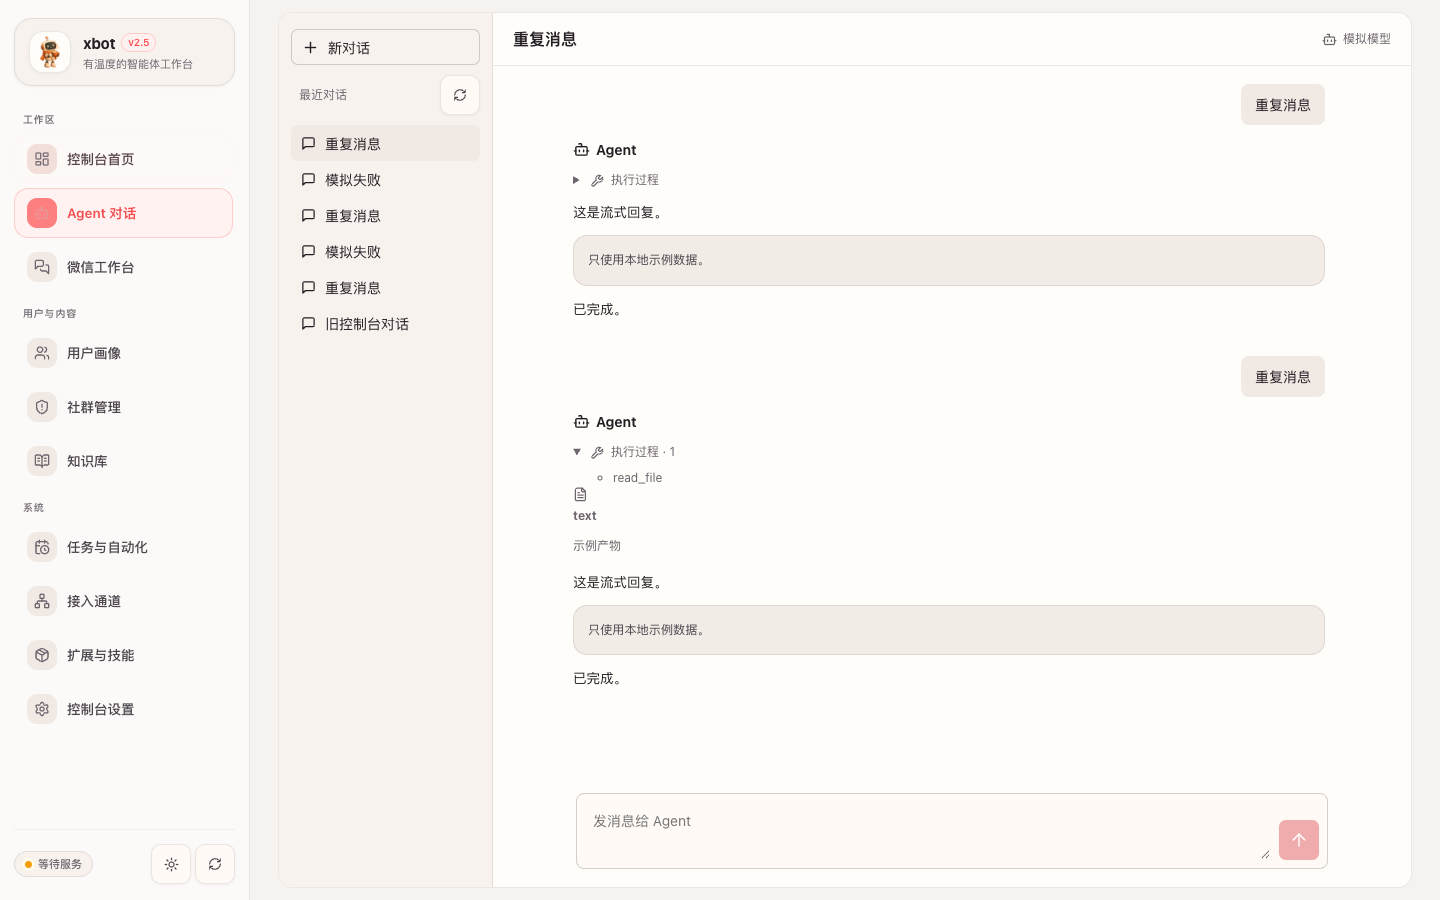
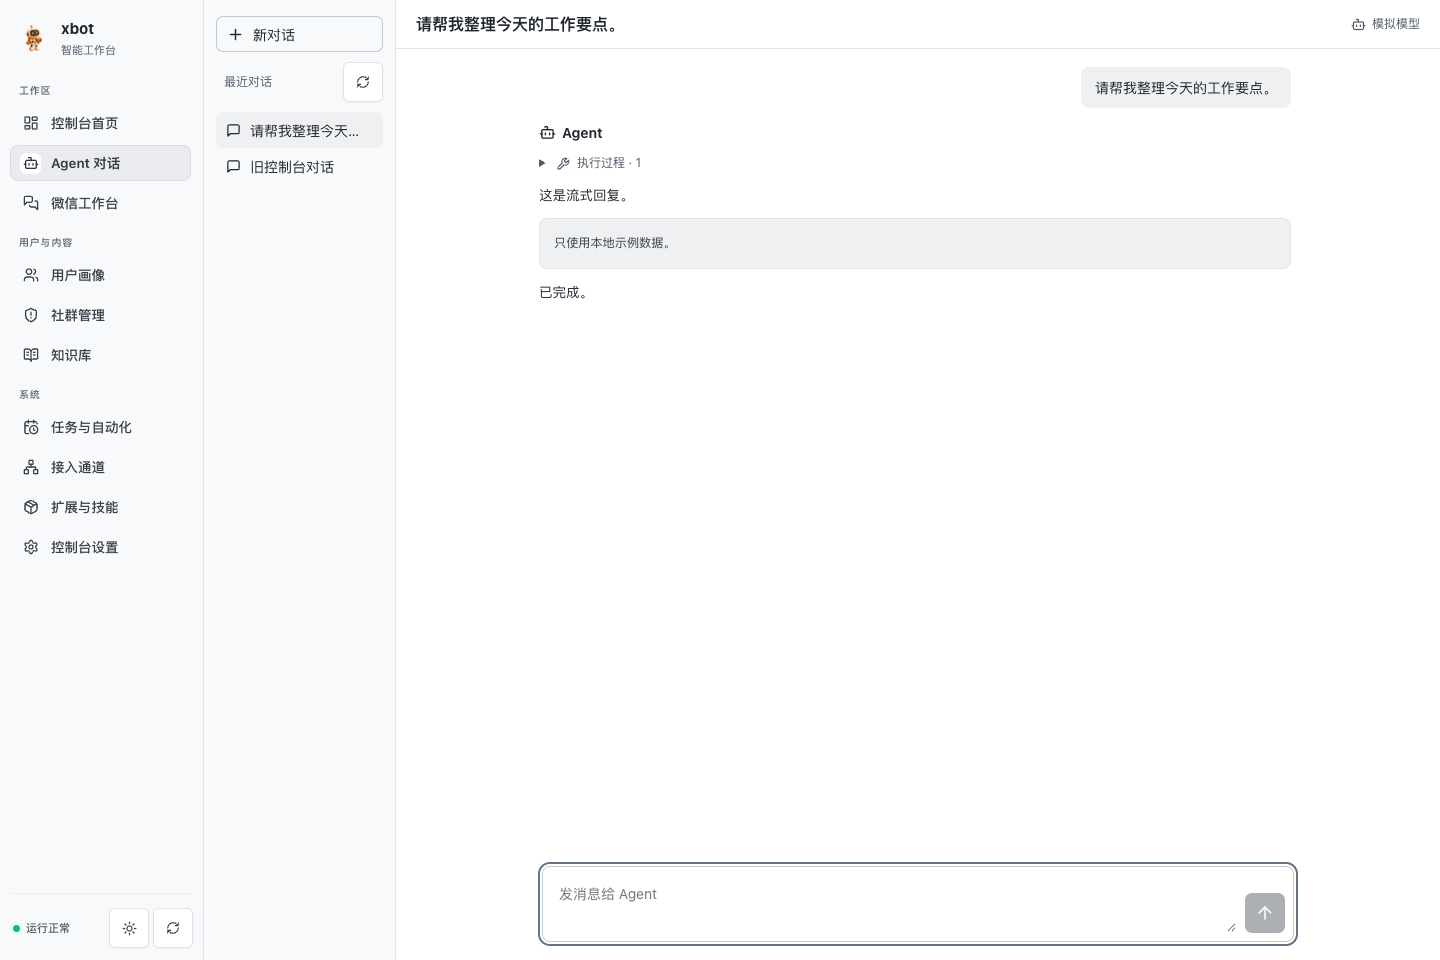
docs(readme): refresh console screenshots and setup guide

diff --git a/README.md b/README.md
@@ -1,6 +1,6 @@
 # xbot-next
 
-**自托管的 Agent 与消息机器人工作台。** 在一个 Web 控制台里和 Hermes Agent 对话、管理微信会话，并配置自动化任务。
+**自托管的 Agent 与消息机器人工作台。** 在一个紧凑的 Web 控制台里与 Hermes Agent 对话、管理微信会话、接入消息通道并配置自动化任务。
 
 [桌面预览](#桌面预览) · [快速开始](#快速开始) · [模型与通道](#模型与通道) · [开发指南](#开发指南) · [许可](#许可)
 
@@ -22,7 +22,19 @@
 
 ![微信工作台桌面界面：联系人头像、左侧来信和右侧机器人回复](docs/screenshots/desktop-wechat.png)
 
-控制台还提供通道状态、定时任务、插件和 Skill 管理；Agent 需要外部工具时，可按需接入 MCP。
+### 接入通道
+
+微信客户端、微信 iLink、QQ、Telegram 和 Web 各有独立卡片。卡片展示通道状态，微信、QQ 和 Telegram 使用浅底平台图标，浏览器标签显示 Xbot 吉祥物。
+
+![接入通道桌面界面：微信、QQ、Telegram 和 Web 的图标与状态](docs/screenshots/desktop-channels.png)
+
+### 控制台设置
+
+打开设置默认进入模型配置。系统设置按用途分组，通道参数按平台分组；常用项直接显示，进阶参数按需展开，也可以搜索定位。
+
+![控制台设置桌面界面：分组导航、模型配置与进阶选项](docs/screenshots/desktop-settings.png)
+
+控制台还提供定时任务、插件和 Skill 管理；Agent 需要外部工具时，可按需接入 MCP。
 
 ## 快速开始
 
@@ -59,7 +71,7 @@ bash scripts/install.sh
 
 ## 模型与通道
 
-先在 **控制台设置 → 系统与模型配置** 设置服务地址、模型名和 API Key，再到 **Agent 对话** 试发一条消息。不接微信也能使用 Web Agent。支持 OpenAI-compatible 和 Anthropic 接口；环境变量和权限边界见 [Hermes 集成指南](docs/hermes-agent-integration.md) 与 [.env.example](.env.example)。真实密钥只存于本机配置或部署环境。
+先在 **控制台设置 → 系统与模型 → 模型配置** 设置服务地址、模型名和 API Key，再到 **Agent 对话** 试发一条消息。不接微信也能使用 Web Agent。支持 OpenAI-compatible 和 Anthropic 接口；环境变量和权限边界见 [Hermes 集成指南](docs/hermes-agent-integration.md) 与 [.env.example](.env.example)。真实密钥只存于本机配置或部署环境。
 
 需要收发微信消息时，再到 **接入通道** 配置 **微信客户端通道** 或 **微信 iLink**。微信客户端通道仍使用 `XBOT_WECHAT869_*` 配置键，依赖单独运行的微信客户端服务。
 

diff --git a/docs/product-knowledge-graph.md b/docs/product-knowledge-graph.md
@@ -1,7 +1,7 @@
 # 产品知识图谱（可读视图）
 
-> 自动生成，图谱版本 `ebbccde+008-syndex-console-design@20261126185418`。**请勿手改**；修改请用 `pg update`。
-> 数据源：`knowledge/graph/nodes.jsonl`（27 节点）、`edges.jsonl`（33 边）。
+> 自动生成，图谱版本 `46654d6+008-syndex-console-design@20261126190627`。**请勿手改**；修改请用 `pg update`。
+> 数据源：`knowledge/graph/nodes.jsonl`（27 节点）、`edges.jsonl`（35 边）。
 
 ## 共享 / 业务（shared）
 
@@ -27,7 +27,7 @@
 
 | ID | 名称 | 状态 | 路径 | 说明 |
 |----|------|------|------|------|
-| `doc.github-readme` | GitHub 首页与快速开始 | active | README.md | 桌面总览、Agent 对话与微信工作台预览，区分 Docker 新实例、本地安装和开发。 |
+| `doc.github-readme` | GitHub 首页与快速开始 | active | README.md | 以演示数据展示新版桌面总览、Agent 对话、微信工作台、接入通道和模型配置，区分 Docker 新实例、本地安装和开发。 |
 
 ## 前端（frontend）
 
@@ -109,9 +109,11 @@
 | 控制台依赖锁定 (`config.ui-dependency-lock`) | implements | 复核并修复 Hermes 升级后告警 (`spec.003-audit-remediation`) |
 | Agent 网页对话历史 (`data_model.agent-web-history`) | depends_on | 独立实例空库基线 (`data_model.clean-schema`) |
 | GitHub 首页与快速开始 (`doc.github-readme`) | implements | 发布新版框架与 README (`spec.007-xbot-pro-release`) |
+| GitHub 首页与快速开始 (`doc.github-readme`) | related_to | Agent 模型设置 (`component.agent-model-settings`) |
 | GitHub 首页与快速开始 (`doc.github-readme`) | related_to | 独立实例 Compose (`config.clean-compose`) |
 | GitHub 首页与快速开始 (`doc.github-readme`) | related_to | 公开通道默认配置 (`config.public-channel-defaults`) |
 | GitHub 首页与快速开始 (`doc.github-readme`) | related_to | Agent 对话工作台 (`page.agent-workspace`) |
+| GitHub 首页与快速开始 (`doc.github-readme`) | related_to | 接入通道和通道配置 (`page.channel-management`) |
 | GitHub 首页与快速开始 (`doc.github-readme`) | related_to | 微信工作台 (`page.wechat-workbench`) |
 | Xbot 内嵌 Hermes (`integration.hermes-xbot`) | depends_on | Hermes 固定发行版 (`config.hermes-release`) |
 | Xbot 内嵌 Hermes (`integration.hermes-xbot`) | depends_on | Python 依赖锁定 (`config.python-dependency-lock`) |

diff --git a/specs/008-syndex-console-design/tasks.md b/specs/008-syndex-console-design/tasks.md
@@ -10,6 +10,7 @@
 - [x] T004 构建、浏览器回归与图谱一致性 | 依赖: T002,T003 | 负责人: Agent
 - [x] T005 在公开发布基线上移植前端差异，补通道和浏览器标签图标并验证 | 依赖: T004 | 负责人: Agent
 - [~] T006 提交页面 PR，待批准和检查通过后合并 | 依赖: T005 | 负责人: Agent
+- [x] T007 更新 README 的配置路径与桌面演示截图 | 依赖: T005 | 负责人: Agent
 
 ## 下一步
 - 页面 PR 基于独立框架发布 PR；待发布基线和此 PR 满足审核、检查条件后依次合入。
@@ -21,3 +22,4 @@
 - 2026-11-26 创建 feature
 - 2026-11-26 前端构建、桌面与窄屏浏览器回归通过；验证标签图标加载、品牌图标浅底、未知通道兜底、设置与流式对话。
 - 锁定环境 `pytest -q` 为 312 通过、2 跳过，`ruff check` 和 `npm audit --omit=dev` 通过；未验证真实扫码、消息发送或模型调用。
+- 2026-11-26 更新 README 的五张桌面截图和模型配置路径；截图仅使用本地演示数据，公共部署安全说明不变。

diff --git a/docs/file-directory.md b/docs/file-directory.md
@@ -34,7 +34,9 @@
 | `docs/production-deployment.md` | 文件 | 独立生产部署流程与运维要求 |
 | `docs/screenshots` | 目录 | README 使用的桌面 Web 演示截图 |
 | `docs/screenshots/desktop-agent.png` | 文件 | Agent 会话、工具执行和产物示例 |
+| `docs/screenshots/desktop-channels.png` | 文件 | 接入通道卡片、浅底品牌图标和运行状态示例 |
 | `docs/screenshots/desktop-overview.png` | 文件 | 控制台运行总览和通道状态示例 |
+| `docs/screenshots/desktop-settings.png` | 文件 | 控制台设置分组和模型配置入口示例 |
 | `docs/screenshots/desktop-wechat.png` | 文件 | 微信工作台、头像和出站回复示例 |
 | `files` | 目录 | 本地运行生成的静态文件目录，不纳入源码 |
 | `knowledge` | 目录 | 知识库根目录 |

diff --git a/specs/008-syndex-console-design/spec.md b/specs/008-syndex-console-design/spec.md
@@ -5,4 +5,5 @@
 - 桌面、窄屏、深色均可使用；搜索可匹配进阶项和 ENV 键；跨分区草稿、模型获取、校验、保存确认与密钥遮蔽继续可用。
 - 接入通道卡片显示各平台的标志；品牌图标使用浅色底，两种微信接入沿用同一品牌图标，未知通道保留通用图标。
 - 浏览器标签显示 Xbot 吉祥物，沿用当前网页标题。
+- GitHub README 展示新版桌面工作台与设置入口；截图仅使用演示数据，保留公开部署的安全默认值。
 - 不修改后端契约、配置值、数据库或 Git 历史；公开发布仅包含本次页面源码、图标与公开文档。

diff --git a/docs/changelog.md b/docs/changelog.md
@@ -4,6 +4,7 @@
 
 <!-- pg:log:start -->
 ### 2026-11-26
+- 19:07 [008-syndex-console-design] 更新公开 README 的五张桌面演示截图与模型配置入口
 - 18:55 [008-syndex-console-design] 重整控制台布局和设置，补齐浅底通道图标与 Xbot 浏览器标签图标
 - 18:10 [007-xbot-pro-release] 整理公开 README 与三张桌面实拍；清理发布快照的实例地址与凭据配置
 

diff --git a/specs/008-syndex-console-design/plan.md b/specs/008-syndex-console-design/plan.md
@@ -34,3 +34,6 @@
 
 ## 7. 知识图谱变更计划
 更新前端工作台、设置和通道展示；后端不变。
+
+## 8. 公开 README
+沿用现有桌面预览、安装和配置章节。重拍总览、Agent 与微信工作台，补充接入通道和模型配置截图；统一配置入口名称。仅使用本地模拟数据，不记录实例地址或配置。
